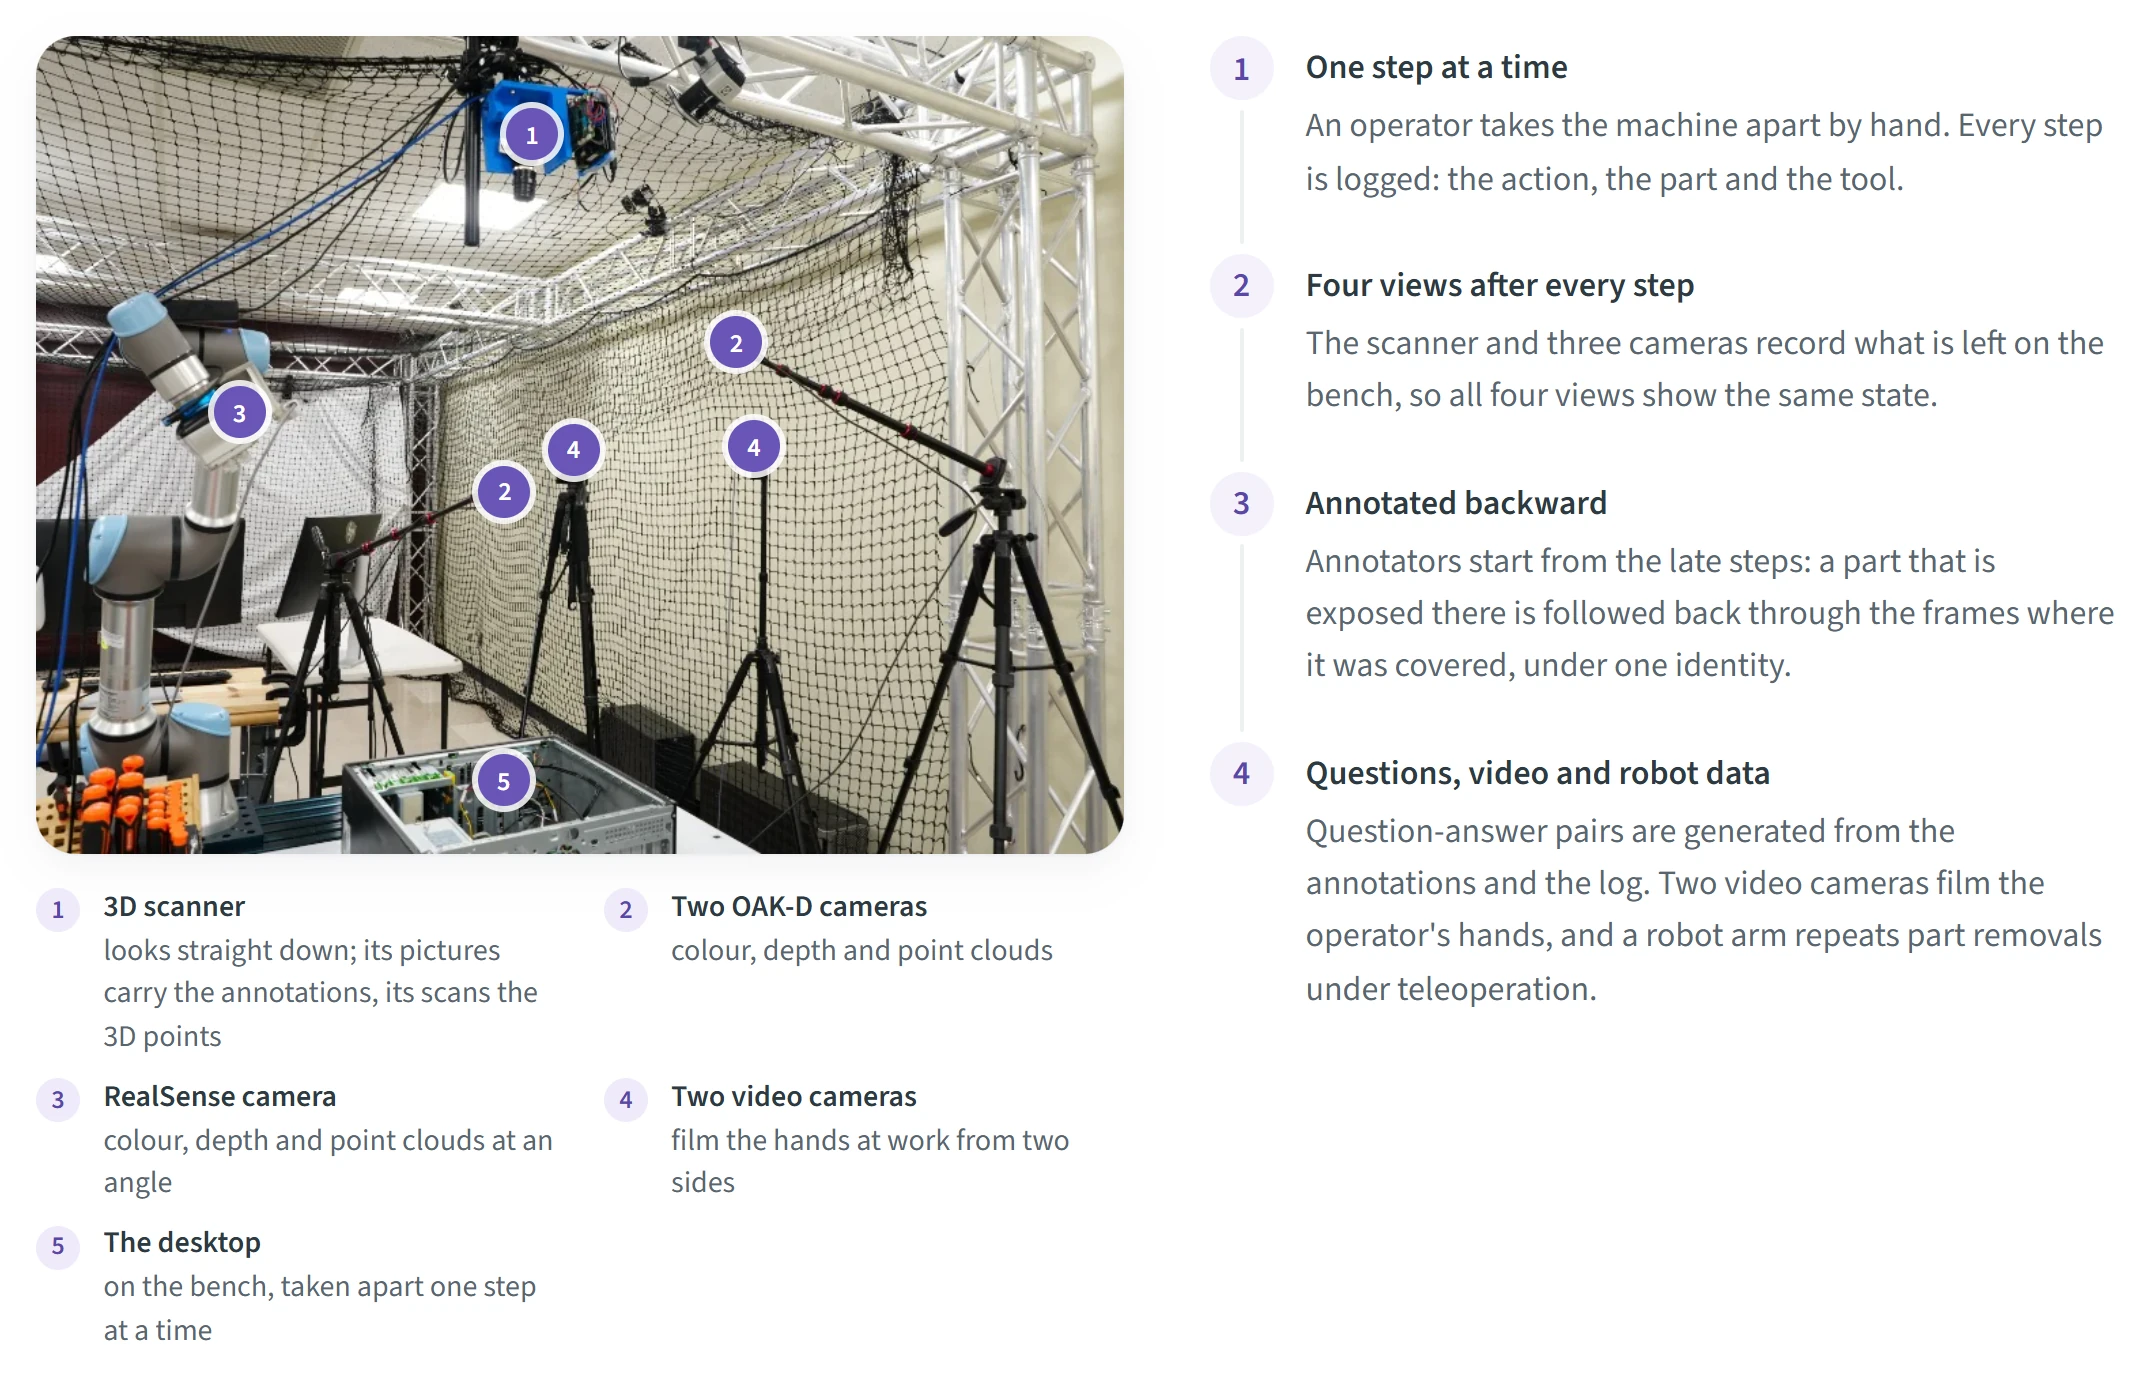
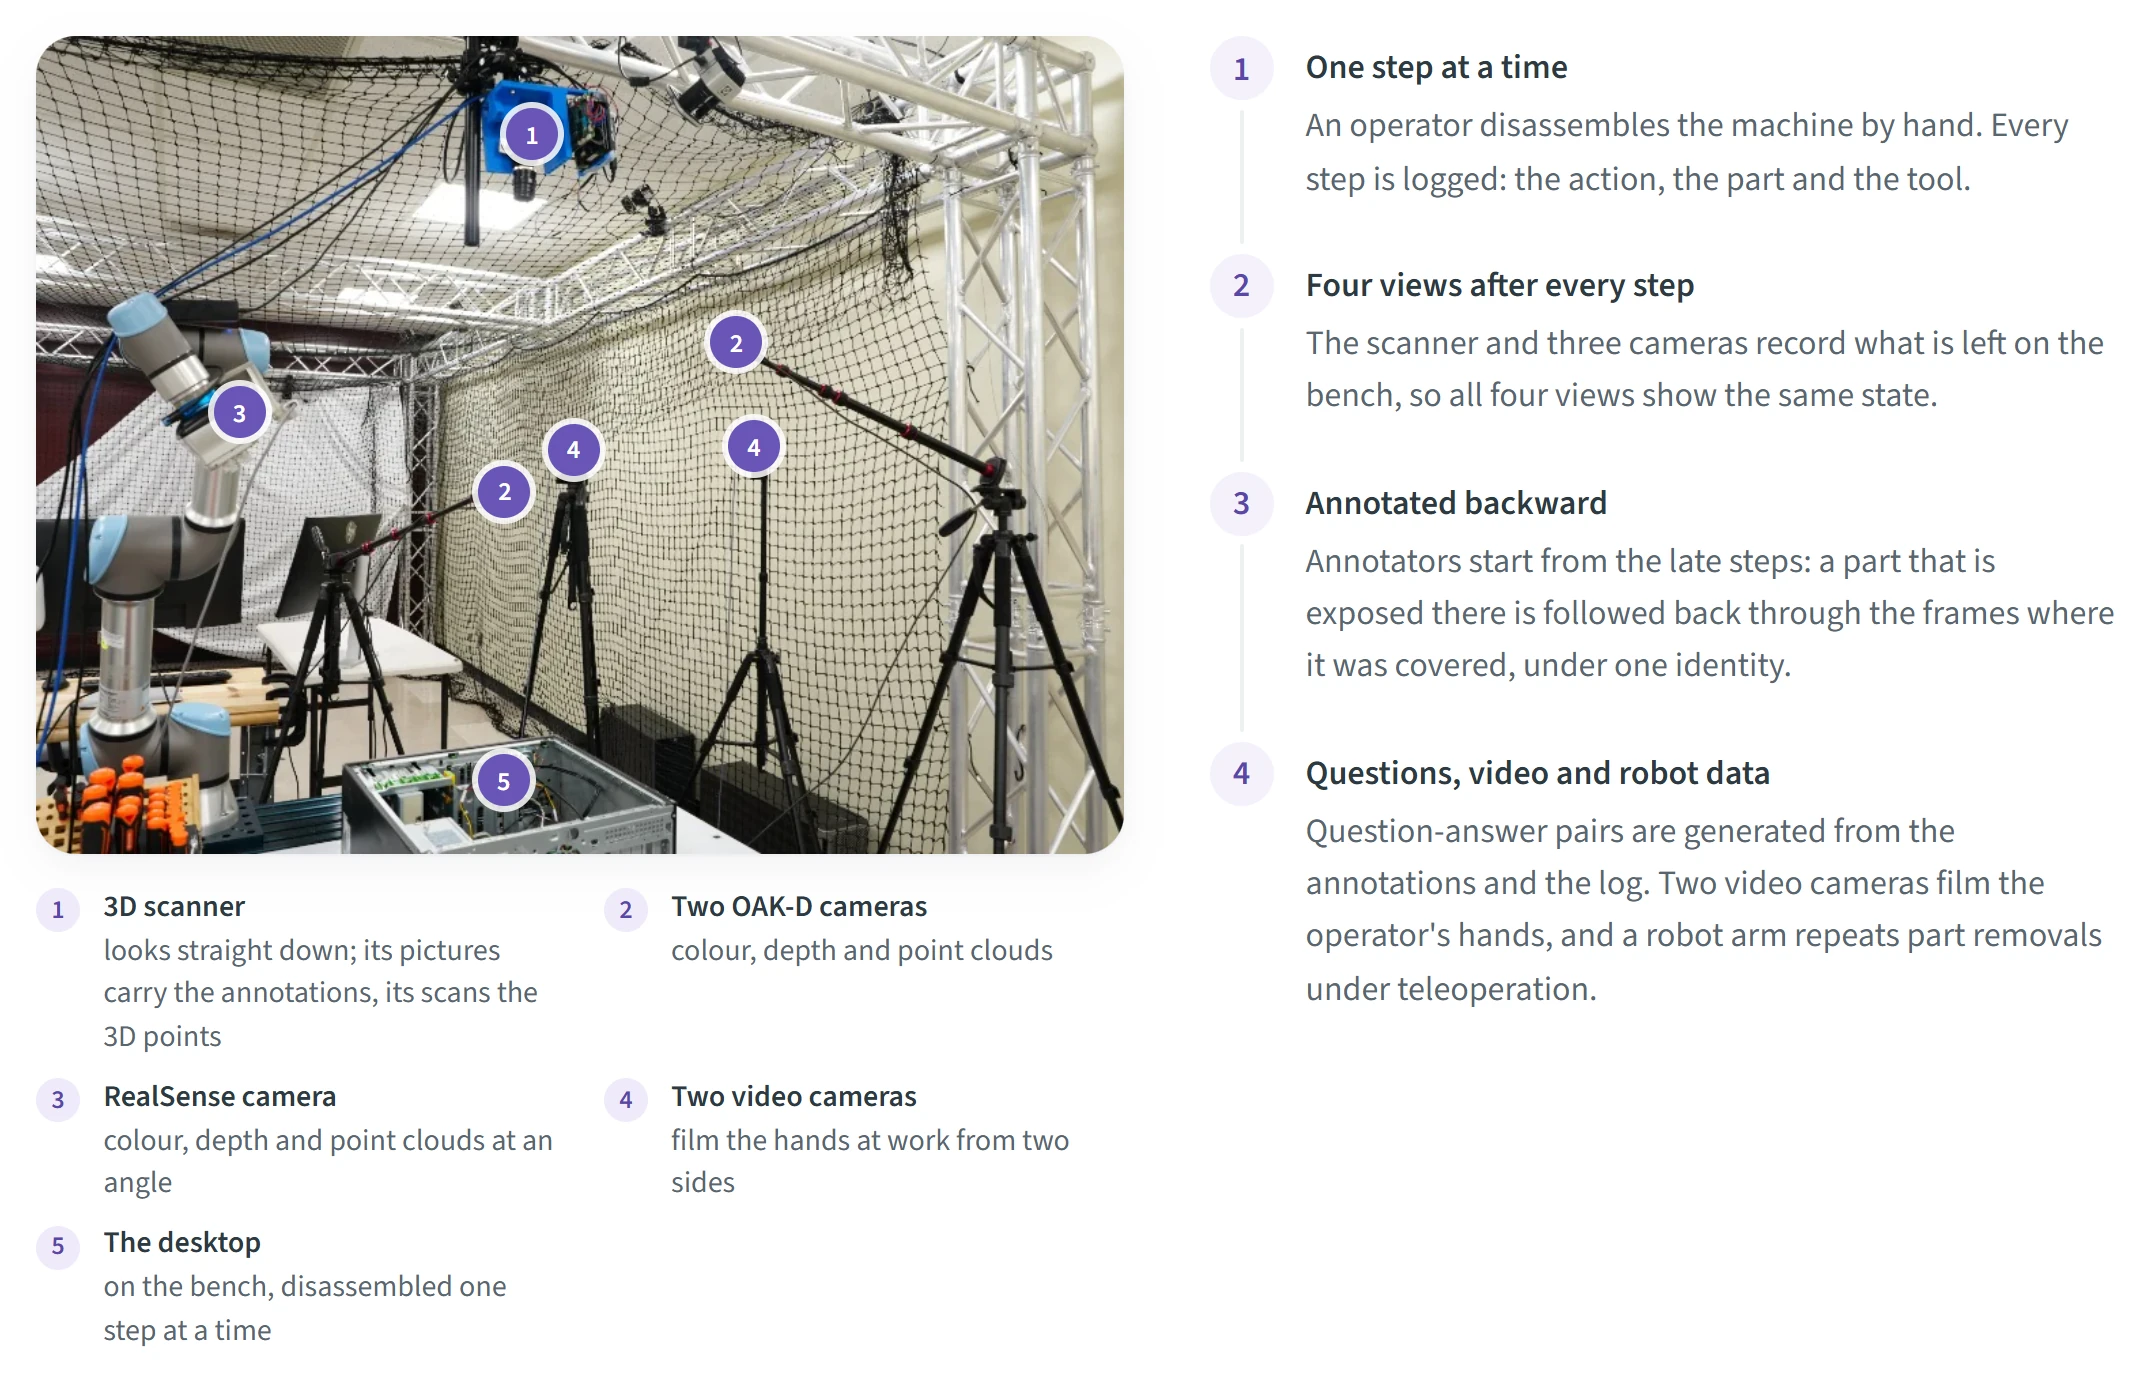
Wording: "disassembly" throughout (README, data terms, comments); README pictures retaken
The animation is now media/disassembly.webp. Code is unchanged: only README text, the data terms, comments and
docstrings differ. The answer formats that are part of the released prompts keep their wording.

Changed region(s): [[0.5915, 0.062, 0.9651, 0.1549], [0.1245, 0.8984, 0.2491, 0.9294], [0.0623, 0.9294, 0.1245, 0.9914]]

diff --git a/vqa/tda/core/model.py b/vqa/tda/core/model.py
@@ -1,4 +1,4 @@
-"""Shared dataclasses and enums of the Teardown Annotator (TDA), the annotation tool.
+"""Shared dataclasses and enums of the annotation tool (package tda).
 
 The annotation tool's modules exchange data through these types.
 Coordinates are always in the *original image* frame of the view; masks are
@@ -10,17 +10,17 @@ from dataclasses import dataclass, field
 from enum import Enum
 from typing import Optional
 
-#: The four views of the teardown **sequence**: one frame per logical step.
+#: The four views of the disassembly **sequence**: one frame per logical step.
 VIEWS = ("scan", "oak1", "oak2", "rs")
 
 # --------------------------------------------------------------------------- #
 # the components gallery
 # --------------------------------------------------------------------------- #
-#: After each teardown the operators laid every removed part out on the table
+#: After each disassembly the operators laid every removed part out on the table
 #: and photographed the layout several times (re-arranged between shots) with
 #: both OAK cameras and the RealSense -- and laid them out on the scanner's bed
 #: and scanned them, one to five times (``cmp_scan``, first, as the scanner is
-#: first among :data:`VIEWS`). Those photos are **not** steps of the teardown:
+#: first among :data:`VIEWS`). Those photos are **not** steps of the disassembly:
 #: each camera's shots are a view of their own, and a shot ``k = 1..N`` is an
 #: ordinary frame ``(desktop, k, view)``.
 COMPONENT_VIEWS = ("cmp_scan", "cmp_oak1", "cmp_oak2", "cmp_rs")
@@ -184,7 +184,7 @@ def machine_only(instances: dict) -> dict:
 # gallery-only parts
 # --------------------------------------------------------------------------- #
 #: ``attrs`` flag of a part added from a components-gallery shot: it lies on
-#: the table in the gallery, and the teardown sequence never asks for it.
+#: the table in the gallery, and the disassembly sequence never asks for it.
 GALLERY_ONLY_ATTR = "gallery_only"
 
 
@@ -199,7 +199,7 @@ def is_gallery_only(rec: Optional["InstanceRec"]) -> bool:
     (:func:`is_extra` is true, :func:`is_context` false) -- but they have no
     state, no event and no step. :func:`tda.core.states.initial_state` leaves
     them out of every snapshot the way it leaves an object outside the machine
-    out, so nothing that walks the teardown -- geometry, the cascade, the
+    out, so nothing that walks the disassembly -- geometry, the cascade, the
     validation -- ever sees one; :func:`tda.core.states.gallery_state`
     puts each on the table of every shot whatever its class.
     """
@@ -229,7 +229,7 @@ def is_in_gallery(rec: Optional["InstanceRec"]) -> bool:
 
 
 def teardown_only(instances: dict) -> dict:
-    """``instances`` as the teardown sequence knows them.
+    """``instances`` as the disassembly sequence knows them.
 
     :func:`machine_only` without the gallery-only parts: what the constraint
     graph, the implied-part rules and the sequence's exports read, so none of
@@ -263,7 +263,7 @@ def is_cage_latch(rec: Optional["InstanceRec"]) -> bool:
 # --------------------------------------------------------------------------- #
 # what a step type means
 # --------------------------------------------------------------------------- #
-#: Step types that describe no annotatable moment of the teardown.
+#: Step types that describe no annotatable moment of the disassembly.
 #:
 #: An ``ignore`` step -- a calibration shot, a re-take -- is never compiled into
 #: the truth table, never carries a review status of its own and is never
@@ -279,7 +279,7 @@ NO_CHANGE_STEP_TYPES = frozenset(
 
 
 def step_is_annotatable(step_type: Optional[str]) -> bool:
-    """Is there a moment of the teardown here to compile, confirm and export?
+    """Is there a moment of the disassembly here to compile, confirm and export?
 
     The single answer the annotation tool's truth table and its exports both
     read, so they cannot disagree. A step the table has no row for counts as

diff --git a/vqa/tda/core/states.py b/vqa/tda/core/states.py
@@ -200,7 +200,7 @@ def initial_state(
     An override of ``removed`` is a part this machine does not have: it starts :data:`ABSENT_PLACEMENT` and marked ``absent``.
 
     A gallery-only part (:func:`tda.core.model.is_gallery_only`) is
-    left out the same way: no step ever touched it, so the teardown never
+    left out the same way: no step ever touched it, so the disassembly never
     asks for it; :func:`gallery_state` puts it on the table.
     """
     over = initial or {}
@@ -683,7 +683,7 @@ def needs_geom(
 # the components gallery
 # --------------------------------------------------------------------------- #
 #: A step after every step: :func:`state_at` folds the whole log up to it,
-#: which is the state at the end of the teardown.
+#: which is the state at the end of the disassembly.
 AFTER_LAST_STEP = 1 << 30
 #: Where a gallery part is in the frame state: the **mask chain**. A part laid
 #: out on the table is drawn like a part in the chassis -- a mask, layered with
@@ -701,14 +701,14 @@ def is_gallery_part(instances: dict[str, InstanceRec], final: FrameState, key: s
                     excluded: Iterable[str] = ()) -> bool:
     """Is ``key`` one of the parts the components gallery asks for?
 
-    Every real instance that is ``removed`` at the end of the teardown and
+    Every real instance that is ``removed`` at the end of the disassembly and
     left the chassis in its own right -- not inside a parent
     (:func:`gone_with_parent`: the clips on the board are *in* the board) --
     except the classes in ``excluded`` (:data:`tda.core.model.GALLERY_EXCLUDED_CLASSES`),
     which are not identifiable in a layout. A Label Studio draft never is.
 
     A gallery-only part always is, whatever its class and whatever
-    ``final`` says: it is in no snapshot of the teardown (it has no events),
+    ``final`` says: it is in no snapshot of the disassembly (it has no events),
     and the annotator added it because it lies on the table.
 
     A sequence part of an excluded class with ``attrs.in_gallery``
@@ -734,13 +734,13 @@ def gallery_state(instances: dict[str, InstanceRec], events: list[StateEvent],
     """The frame state of every components-gallery shot of one desktop.
 
     One answer for all of them, because a layout photo is not a moment of the
-    teardown: the parts on the table are the ones removed by its **last** step.
+    disassembly: the parts on the table are the ones removed by its **last** step.
     Each of them is marked ``gallery`` (:func:`needs_geom` asks for a mask of
     it) in :data:`GALLERY_PLACEMENT`, keeping its ``removed`` state; every other
     instance -- what stayed in the chassis, the excluded classes, the children
     that went out inside a parent -- is ``elsewhere``, out of the picture.
 
-    The gallery-only parts, which no snapshot of the teardown
+    The gallery-only parts, which no snapshot of the disassembly
     carries, join them on the table: ``removed`` like every part there, any
     class -- a ``loose_cable``, a ``screw`` the log never counted.
     """

diff --git a/vqa/tda/core/graph_rules.py b/vqa/tda/core/graph_rules.py
@@ -738,7 +738,7 @@ def propose_edges(instances: dict[str, InstanceRec], tax: Taxonomy,
     reading keyed on its class, role or kind (the CPU lever over the CPU, a
     power lead on the PSU, the cooler over the CPU, "this cover hides every
     motherboard screw"). The log never operated it, so such an edge is either
-    one the recorded teardown "violates" or a question about it nobody asked;
+    one the recorded disassembly "violates" or a question about it nobody asked;
     a human who wants one adds it by hand.
 
     **Everything on the motherboard comes off before the motherboard**: every

diff --git a/vqa/tda/core/graph_infer.py b/vqa/tda/core/graph_infer.py
@@ -287,7 +287,7 @@ def infer_relational_fields(
     its *host* and nothing else: no ``fastens`` for a screw, no ``of`` for a
     RAM latch. The log never operated it, so the clock these guesses rest on
     says nothing about it, and every edge a guess would imply is one the
-    recorded teardown would then "violate".
+    recorded disassembly would then "violate".
     """
     filled: list[str] = []
     clock = None if actions is None else _Clock(actions)

diff --git a/vqa/tda/__init__.py b/vqa/tda/__init__.py
@@ -1,4 +1,4 @@
-"""The subset of the Teardown Annotator (TDA) package the question-answering tools need.
+"""The subset of the annotation tool's package (tda) the question-answering tools need.
 
 The full annotation tool is linked from the top-level README of this repository.
 """

diff --git a/README.md b/README.md
@@ -2,7 +2,7 @@
   <a href="https://eol3d.github.io"><img src="media/logo.png" alt="EoL3D" width="360"></a>
 </h1>
 
-<p align="center">Step-by-step teardowns of end-of-life desktop computers</p>
+<p align="center">Step-by-step disassembly of end-of-life desktop computers</p>
 
 <p align="center">
   <a href="https://eol3d.github.io"><b>Website</b></a> &nbsp;·&nbsp;
@@ -13,14 +13,14 @@
 </p>
 
 <p align="center">
-  <img src="media/teardown.webp" alt="Eight desktops taken apart in step, as the scanner saw them after every step" width="800">
+  <img src="media/disassembly.webp" alt="Eight desktops disassembled in step, as the scanner saw them after every step" width="800">
 </p>
 
-Code for **EoL3D**, a dataset of 66 end-of-life desktop computers taken apart by hand, one step at a time. After
+Code for **EoL3D**, a dataset of 66 end-of-life desktop computers disassembled by hand, one step at a time. After
 every step the machine is recorded from four fixed views; instance masks, part states, removal relations,
 question-answer pairs, 3D reconstructions, operator video and robot demonstrations are built on those records.
 
-- Website: <https://eol3d.github.io> (what the data is, an interactive teardown, results)
+- Website: <https://eol3d.github.io> (what the data is, an interactive 3D view of a disassembly sequence, results)
 - Guide: <https://eol3d.github.io/guide.html> (every folder and file, tasks and scoring)
 - Data: <https://huggingface.co/datasets/ChangChrisLiu/E3D-Desktop-Disassembly> (the repository still carries the
   dataset's earlier name, E3D-Desktop-Disassembly; it holds the same data)
@@ -30,15 +30,15 @@ question-answer pairs, 3D reconstructions, operator video and robot demonstratio
 ## The dataset in two pictures
 
 <p align="center">
-  <img src="media/capture.webp" alt="The capture rig with its devices marked: a 3D scanner looking straight down, two OAK-D cameras, a RealSense camera, two video cameras and the desktop on the bench. Beside it the four things done for every desktop: taken apart one step at a time, four views after every step, annotated backward, then questions, video and robot data." width="860">
+  <img src="media/capture.webp" alt="The capture rig with its devices marked: a 3D scanner looking straight down, two OAK-D cameras, a RealSense camera, two video cameras and the desktop on the bench. Beside it the four things done for every desktop: disassembled one step at a time, four views after every step, annotated backward, then questions, video and robot data." width="860">
 </p>
 
 <p align="center">
-  <img src="media/stages.webp" alt="The four stages the teardowns serve: perception, understanding, planning and execution. Shown is perception: four steps of one teardown with the masks of the parts, and one frame with the complete extent and the visible area of every part." width="860">
+  <img src="media/stages.webp" alt="The four stages the dataset serves: perception, understanding, planning and execution. Shown is perception: four steps of one disassembly sequence with the masks of the parts, and one frame with the complete extent and the visible area of every part." width="860">
 </p>
 
 Both are sections of the [website](https://eol3d.github.io), where the stages can be opened one by one and a
-teardown can be stepped through in 3D.
+disassembly sequence can be stepped through in 3D.
 
 ## What is here
 
